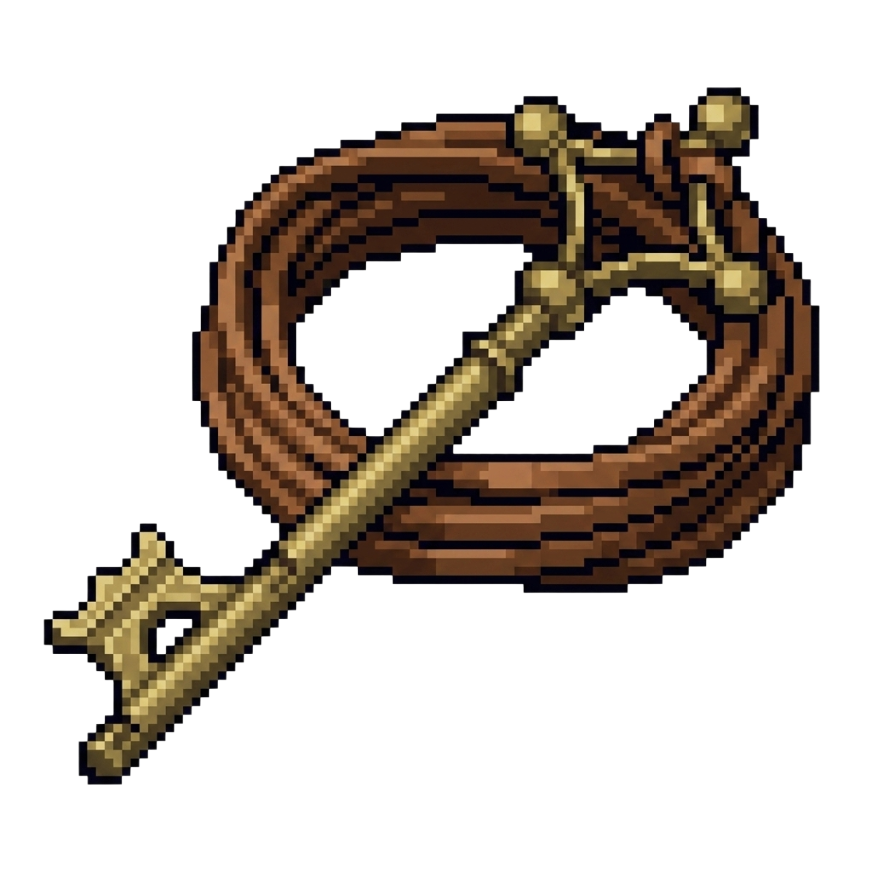
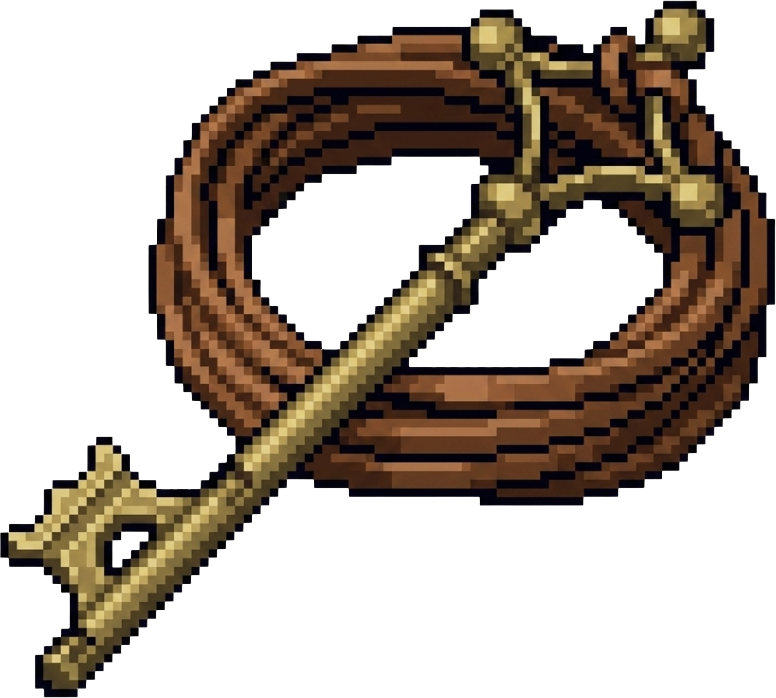
feat: 아이템 외곽선 제거 및 이미지 변경

diff --git a/src/scenes/LibraryScene.js b/src/scenes/LibraryScene.js
@@ -119,7 +119,7 @@ class LibraryScene extends Phaser.Scene {
     this.load.image('cat_black', '/assets/pets/cat_black.png');
     this.load.image('cat_gray',  '/assets/pets/cat_gray.png');
 
-    // 라프탄
+    // 리프탄
     this.load.spritesheet('raptan', '/assets/characters/raptan_sprite.webp', {
       frameWidth: 343, frameHeight: 440
     });
@@ -731,6 +731,12 @@ class LibraryScene extends Phaser.Scene {
     }
   }
 
+  restoreBackground() {
+    if (!this.bg) return;
+    this.bg.setTexture('background');
+    this.bg.setDisplaySize(this.bgW, this.bgH);
+  }
+
   addCats() {
     if (this.catsAdded) return;
     this.catsAdded = true;
@@ -765,6 +771,16 @@ class LibraryScene extends Phaser.Scene {
     });
   }
 
+  removeCats() {
+    if (!this.catsAdded) return;
+    if (this.catSprites) {
+      this.catSprites.forEach(cat => cat.destroy());
+      this.catSprites = [];
+    }
+    this.interactables = this.interactables.filter(i => !i.name.startsWith('cat_'));
+    this.catsAdded = false;
+  }
+
   onCatClick(catName) {
     if (this.dialogueActive) return;
     this.dialogueActive = true;
@@ -792,7 +808,7 @@ class LibraryScene extends Phaser.Scene {
     if (this.raptanAdded) return;
     this.raptanAdded = true;
 
-    // 라프탄 애니메이션: 프레임 0,1 = 아래, 2,3 = 위
+    // 리프탄 애니메이션: 프레임 0,1 = 아래, 2,3 = 위
     this.anims.create({
       key: 'raptan_idle_down',
       frames: [{ key: 'raptan', frame: Math.random() < 0.5 ? 0 : 1 }],
@@ -821,7 +837,7 @@ class LibraryScene extends Phaser.Scene {
     this.raptan.setDepth(y);
     this.raptan.play('raptan_idle_down');
 
-    this.raptanLabel = this.add.text(x, y + 4, '라프탄', {
+    this.raptanLabel = this.add.text(x, y + 4, '리프탄', {
       fontSize: '10px', color: '#fff',
       backgroundColor: 'rgba(0,0,0,0.5)',
       padding: { x: 4, y: 2 }
@@ -829,7 +845,7 @@ class LibraryScene extends Phaser.Scene {
 
     this.startRaptanMovement();
 
-    // 라프탄 상호작용 등록
+    // 리프탄 상호작용 등록
     this.interactables.push({
       name: 'raptan', emoji: '💬',
       getPos: () => ({ cx: this.raptan.x, cy: this.raptan.y }),
@@ -838,18 +854,28 @@ class LibraryScene extends Phaser.Scene {
     });
   }
 
+  removeRaptan() {
+    if (!this.raptanAdded) return;
+    if (this.raptan) { this.raptan.destroy(); this.raptan = null; }
+    if (this.raptanLabel) { this.raptanLabel.destroy(); this.raptanLabel = null; }
+    if (this.raptanShadow) { this.raptanShadow.destroy(); this.raptanShadow = null; }
+    if (this.raptanMoveTimer) { this.raptanMoveTimer.remove(); this.raptanMoveTimer = null; }
+    this.interactables = this.interactables.filter(i => i.name !== 'raptan');
+    this.raptanAdded = false;
+  }
+
   onRaptanInteract() {
     if (this.dialogueActive) return;
     this.dialogueActive = true;
     const lines = [
-      '라, 라프탄이에요... 반가워요.',
+      '라, 리프탄이에요... 반가워요.',
       '오, 오늘 읽은 책은 어떠셨어요?',
       '저, 저기... 같이 책 읽을래요?',
       '리, 리프탄이 또 뭐라 했나요...?',
       '맥, 맥시는... 참 좋은 사람이에요.',
     ];
     const line = lines[Math.floor(Math.random() * lines.length)];
-    this.showDialogue('라프탄', line, () => this.endDialogue());
+    this.showDialogue('리프탄', line, () => this.endDialogue());
   }
 
   startRaptanMovement() {
@@ -1041,7 +1067,7 @@ class LibraryScene extends Phaser.Scene {
     // 화자 이름
     const hostName = this.roomConfig?.hostName;
     const catNames = ['로라', '리프', '탄이'];
-    const nameColor = speaker === '라프탄' ? '#7ec8e3'
+    const nameColor = speaker === '리프탄' ? '#7ec8e3'
       : speaker === '거울' ? '#c0e0ff'
       : catNames.includes(speaker) ? '#f0a0c0'
       : speaker === '맥시' ? '#f0c060'

diff --git a/src/components/MyRoom.jsx b/src/components/MyRoom.jsx
@@ -18,10 +18,11 @@ const SIDE_BUTTONS = [
 
 const SLOT_COUNT = 10;
 const SLOT_ITEMS = [
-  { img: '/assets/items/crystal_ball.png', label: '수정구' },
-  { img: '/assets/items/cat_icon.png', label: '고양이' },
-  { img: '/assets/items/raptan_icon.png', label: '라프탄' },
-  null, null, null, null, null, null, null,
+  { img: '/assets/items/inv_item3.png', label: '테마 적용' },
+  { img: '/assets/items/inv_item4.png', label: '고양이' },
+  { img: '/assets/items/inv_item2.png', label: '리프탄' },
+  { img: '/assets/items/inv_item1.png', label: '수정구' },
+  null, null, null, null, null, null,
 ];
 const GREETING_TEXT = '맥시 : 오늘도 독서 열심히 해보자!';
 const TYPING_SPEED = 50;
@@ -78,19 +79,34 @@ function MyRoom() {
     const scene = gameRef.current?.getScene();
     if (!scene) return;
 
-    if (i === 0 && !slotApplied[0]) {
-      // 1번 슬롯: 배경 변경
-      scene.changeBackground('bg_maxy_room');
-      setSlotApplied(prev => ({ ...prev, 0: true }));
-    } else if (i === 1 && !slotApplied[1]) {
-      // 2번 슬롯: 고양이 3마리 추가
-      scene.addCats();
-      setSlotApplied(prev => ({ ...prev, 1: true }));
-    } else if (i === 2 && !slotApplied[2]) {
-      // 3번 슬롯: 라프탄 캐릭터 추가
-      scene.addRaptan();
-      setSlotApplied(prev => ({ ...prev, 2: true }));
-      setShowChat(true);
+    if (i === 0) {
+      if (!slotApplied[0]) {
+        scene.changeBackground('bg_maxy_room');
+        setSlotApplied(prev => ({ ...prev, 0: true }));
+      } else {
+        scene.restoreBackground();
+        setSlotApplied(prev => ({ ...prev, 0: false }));
+      }
+    } else if (i === 1) {
+      if (!slotApplied[1]) {
+        scene.addCats();
+        setSlotApplied(prev => ({ ...prev, 1: true }));
+      } else {
+        scene.removeCats();
+        setSlotApplied(prev => ({ ...prev, 1: false }));
+      }
+    } else if (i === 2) {
+      if (!slotApplied[2]) {
+        scene.addRaptan();
+        setSlotApplied(prev => ({ ...prev, 2: true }));
+        setShowChat(true);
+      } else {
+        scene.removeRaptan();
+        setSlotApplied(prev => ({ ...prev, 2: false }));
+        setShowChat(false);
+      }
+    } else if (i === 3) {
+      scene.onCrystalClick();
     }
   }
 
@@ -151,8 +167,8 @@ function MyRoom() {
           <div style={{ ...styles.chatArea, height: 120, minHeight: 60, maxHeight: 300, marginBottom: 'clamp(4px, 0.8vh, 8px)', resize: 'vertical', overflow: 'auto' }}>
             <ChatBox
               hostUserId={userId}
-              aiConfig={{ persona: 'sangsuri', customGreeting: '라프탄 : 마, 맥시... 무슨 이야기를 할까요?', readingData: { recentBooks: ['상수리나무 아래'], favoriteGenres: ['판타지', '로맨스'], totalBooksRead: 15 } }}
-              hostName="라프탄"
+              aiConfig={{ persona: 'sangsuri', customGreeting: '리프탄 : 마, 맥시... 무슨 이야기를 할까요?', readingData: { recentBooks: ['상수리나무 아래'], favoriteGenres: ['판타지', '로맨스'], totalBooksRead: 15 } }}
+              hostName="리프탄"
               onChatBubble={(type, value) => {
                 const scene = gameRef.current?.getScene();
                 if (!scene) return;
